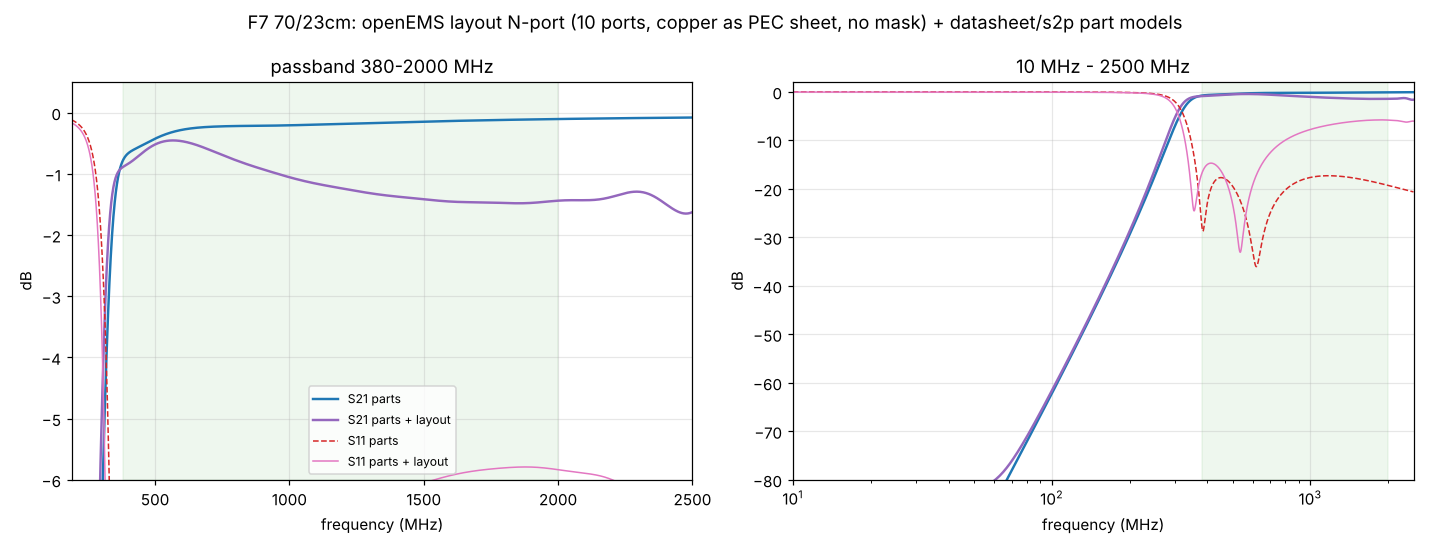
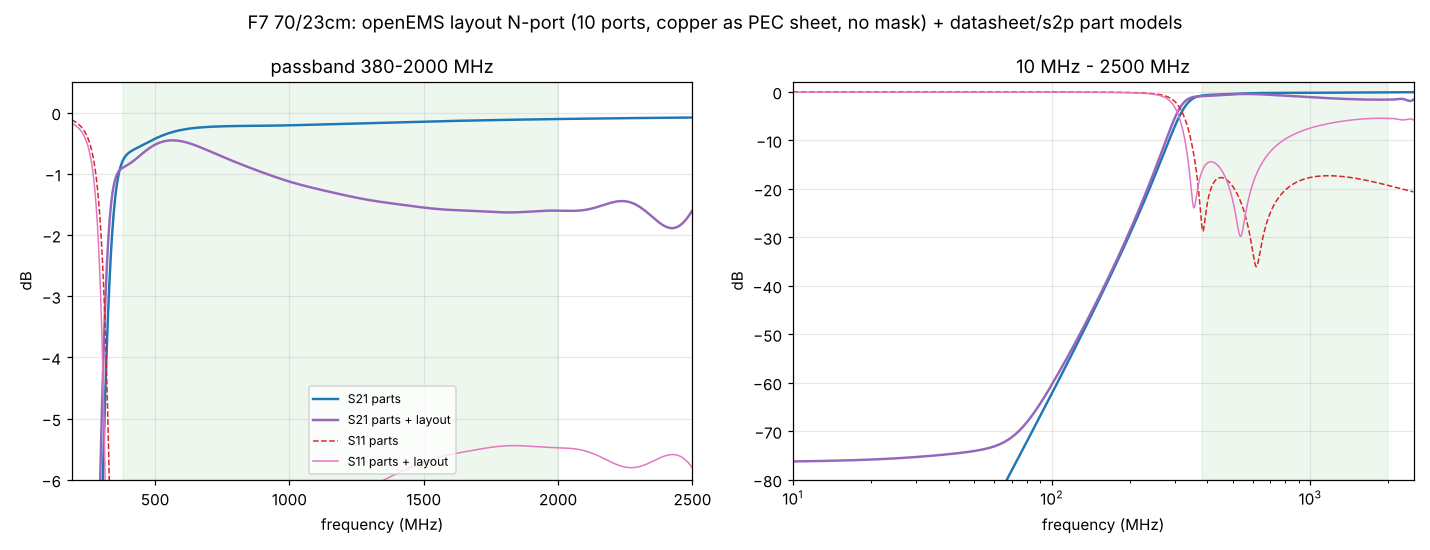
simu: F7 confirmed with kicad_sim 2026-10-21, retune unchanged (12p/6.8p/12p, 10n/10n)
Claude-Session: https://claude.ai/code/session_01YRUiF8Vp4242sya9Xyg3TV

diff --git a/simu/README.md b/simu/README.md
@@ -32,7 +32,7 @@ Output in `simu/out/`: `bank*.png` (S21/S11 of all branches, band shaded), `summ
 | vendor s2p (Murata LQW18, `models/s2p/`) | done for the 6 LQW18 parts |
 | PE42582 switch S-parameters in the chain | to do (pSemi model) |
 | openEMS layout N-port F6 (`openems/results/f6/`, 20 pad ports, 10 MHz-1.5 GHz, copper as PEC sheet, no mask; 20 excitations x 18 min on the GTX 1080) | done: passband IL +0.1 dB, RL 16.0 dB (was 16.6), -3 dB band 92-215 MHz (93-220); stopband above 700 MHz limited to about -45...-60 dB by pad-to-pad coupling (`out/f6_layout.png`) |
-| openEMS layout N-port F7 (`openems/results/f7/`, X99, 10 MHz-2.5 GHz, routed board 6cacac4) | preliminary (X99 had the 2026-10-19 kicad_sim: no fine mesh for non-port nets, diagonal tracks, signal vias; re-run with the 2026-10-21 version queued): every lane node carries 0.4-0.9 pF of pad capacitance to In1 (0603 pads over 0.2 mm prepreg); RL drops to 5.8 dB and IL rises to 1.5 dB above 1 GHz (`out/f7_layout.png`). Retune 12p/6.8p/12p, 10n/10n (`f7_retune.py`, `out/f7_retune.png`): 70 cm IL 1.0 dB RL 10.2 dB, ADS-B IL 0.27 dB RL 20.3 dB, 23 cm IL 0.40 dB RL 13.4 dB |
+| openEMS layout N-port F7 (`openems/results/f7/`, X99 with the office-z170 kicad_sim 2026-10-21 via `Z2_TWIN`, 1.25 MCells, 10 MHz-2.5 GHz, routed board 6cacac4) | done (the 2026-10-19 run gave nearly the same): every lane node carries 0.4-0.9 pF of pad capacitance to In1 (0603 pads over 0.2 mm prepreg); RL drops to 5.4 dB and IL rises to 1.6 dB above 1 GHz (`out/f7_layout.png`). E24/E12 grid search with the layout: 12p/6.8p/12p, 10n/10n (`f7_retune.py`, `out/f7_retune.png`): 70 cm IL 1.0 dB RL 10.1 dB, ADS-B IL 0.29 dB RL 18.7 dB, 23 cm IL 0.45 dB RL 12.6 dB, 1.7-2 GHz IL 0.96 dB RL 7.7 dB |
 | F7 with In1/In2 cleared under the signal pads (`void_pads.py`, `openems/results/f7void/`) | ran, not conclusive: the ports then reference B.Cu 1.5 mm below and their own ~1 nH path enters the series parts |
-| openEMS THRU (U8/U11 pins + R21) | first run invalid: 45 deg tracks, kicad_sim meshes only their bounding box, the coarse mesh lost them (all ports open); re-run with --coarse 0.12 |
+| openEMS THRU (U8/U11 pins + R21) | first run (kicad_sim 2026-10-19) invalid: 45 deg tracks lost by the coarse mesh; the 2026-10-21 version meshes them, but meshing every net in the 43 x 22 mm window gave 127 MCells -> re-run with `Z2_MESH_NETS=ports` |
 | openEMS layout N-port F5 (`openems/results/f5/`, kicad_sim 2026-10-21, excitations 1-11 office-z170 + 12-20 X99 merged with `--collect`) | done: 1.0-1.1 pF per lane node to In1; passband IL 1.25-2.75 dB (parts only 1.10-2.30 dB), RL 10.4 dB (11.3), -3 dB band 26-83 MHz (`out/f5_layout.png`) |
